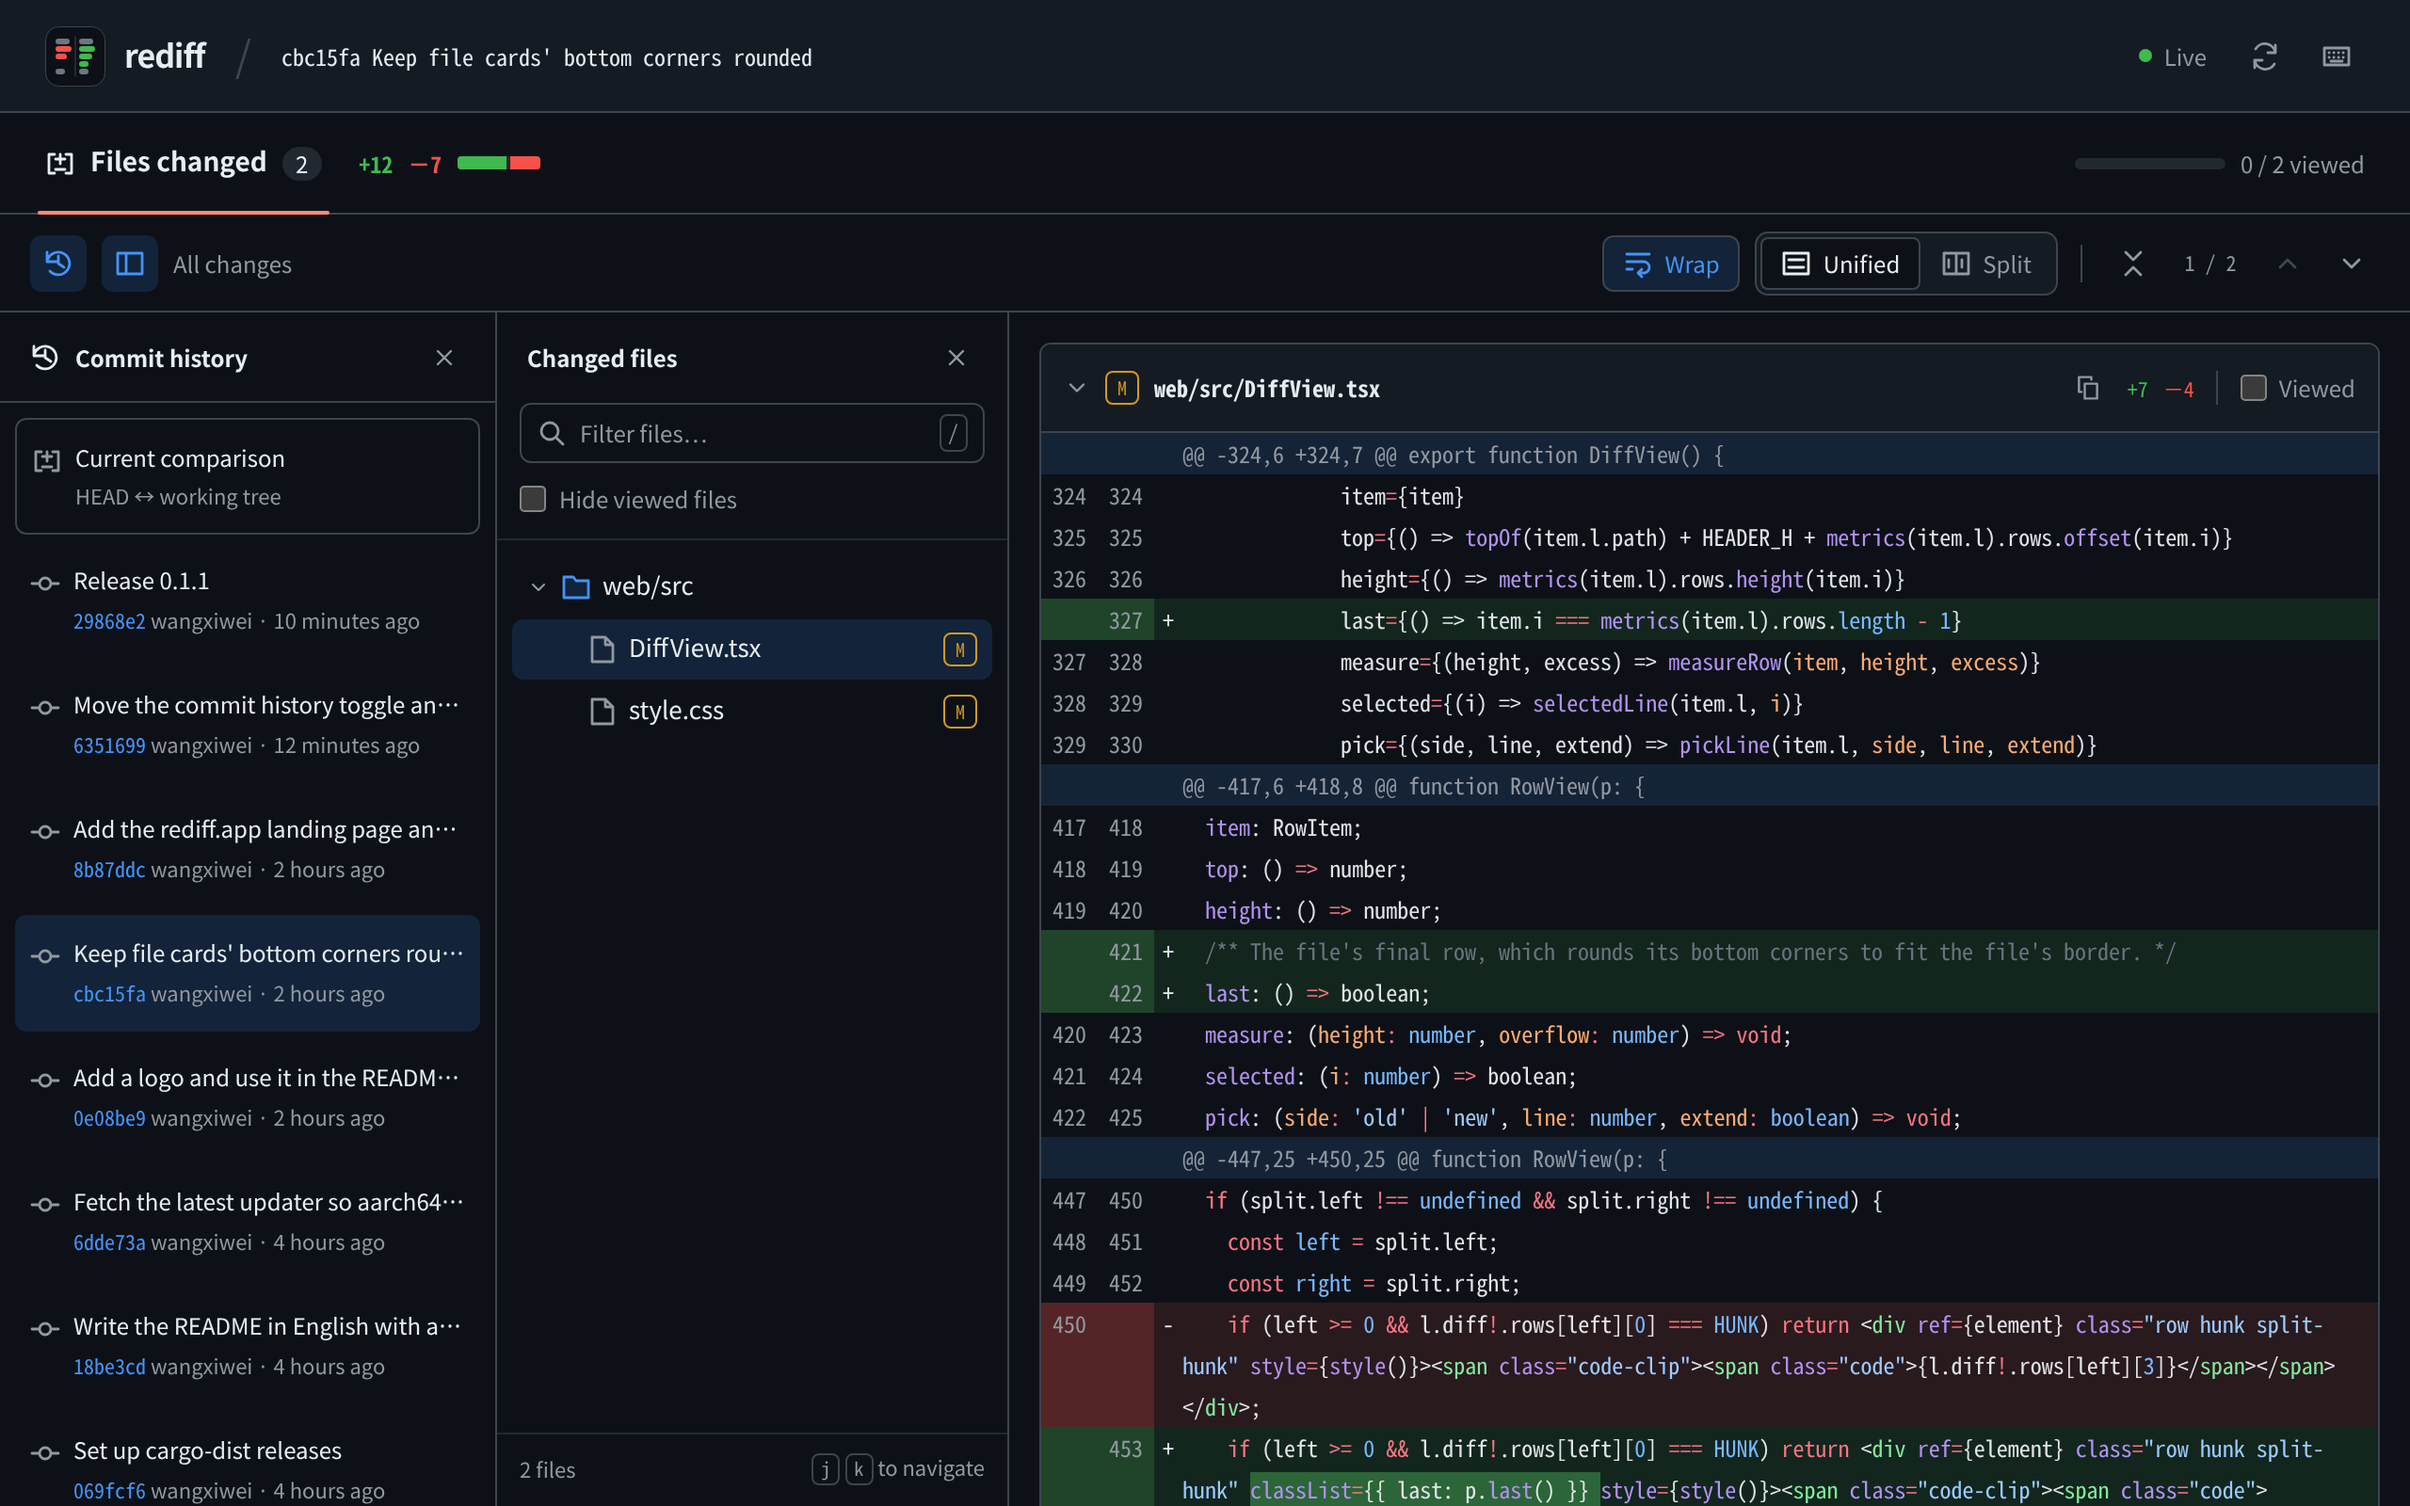
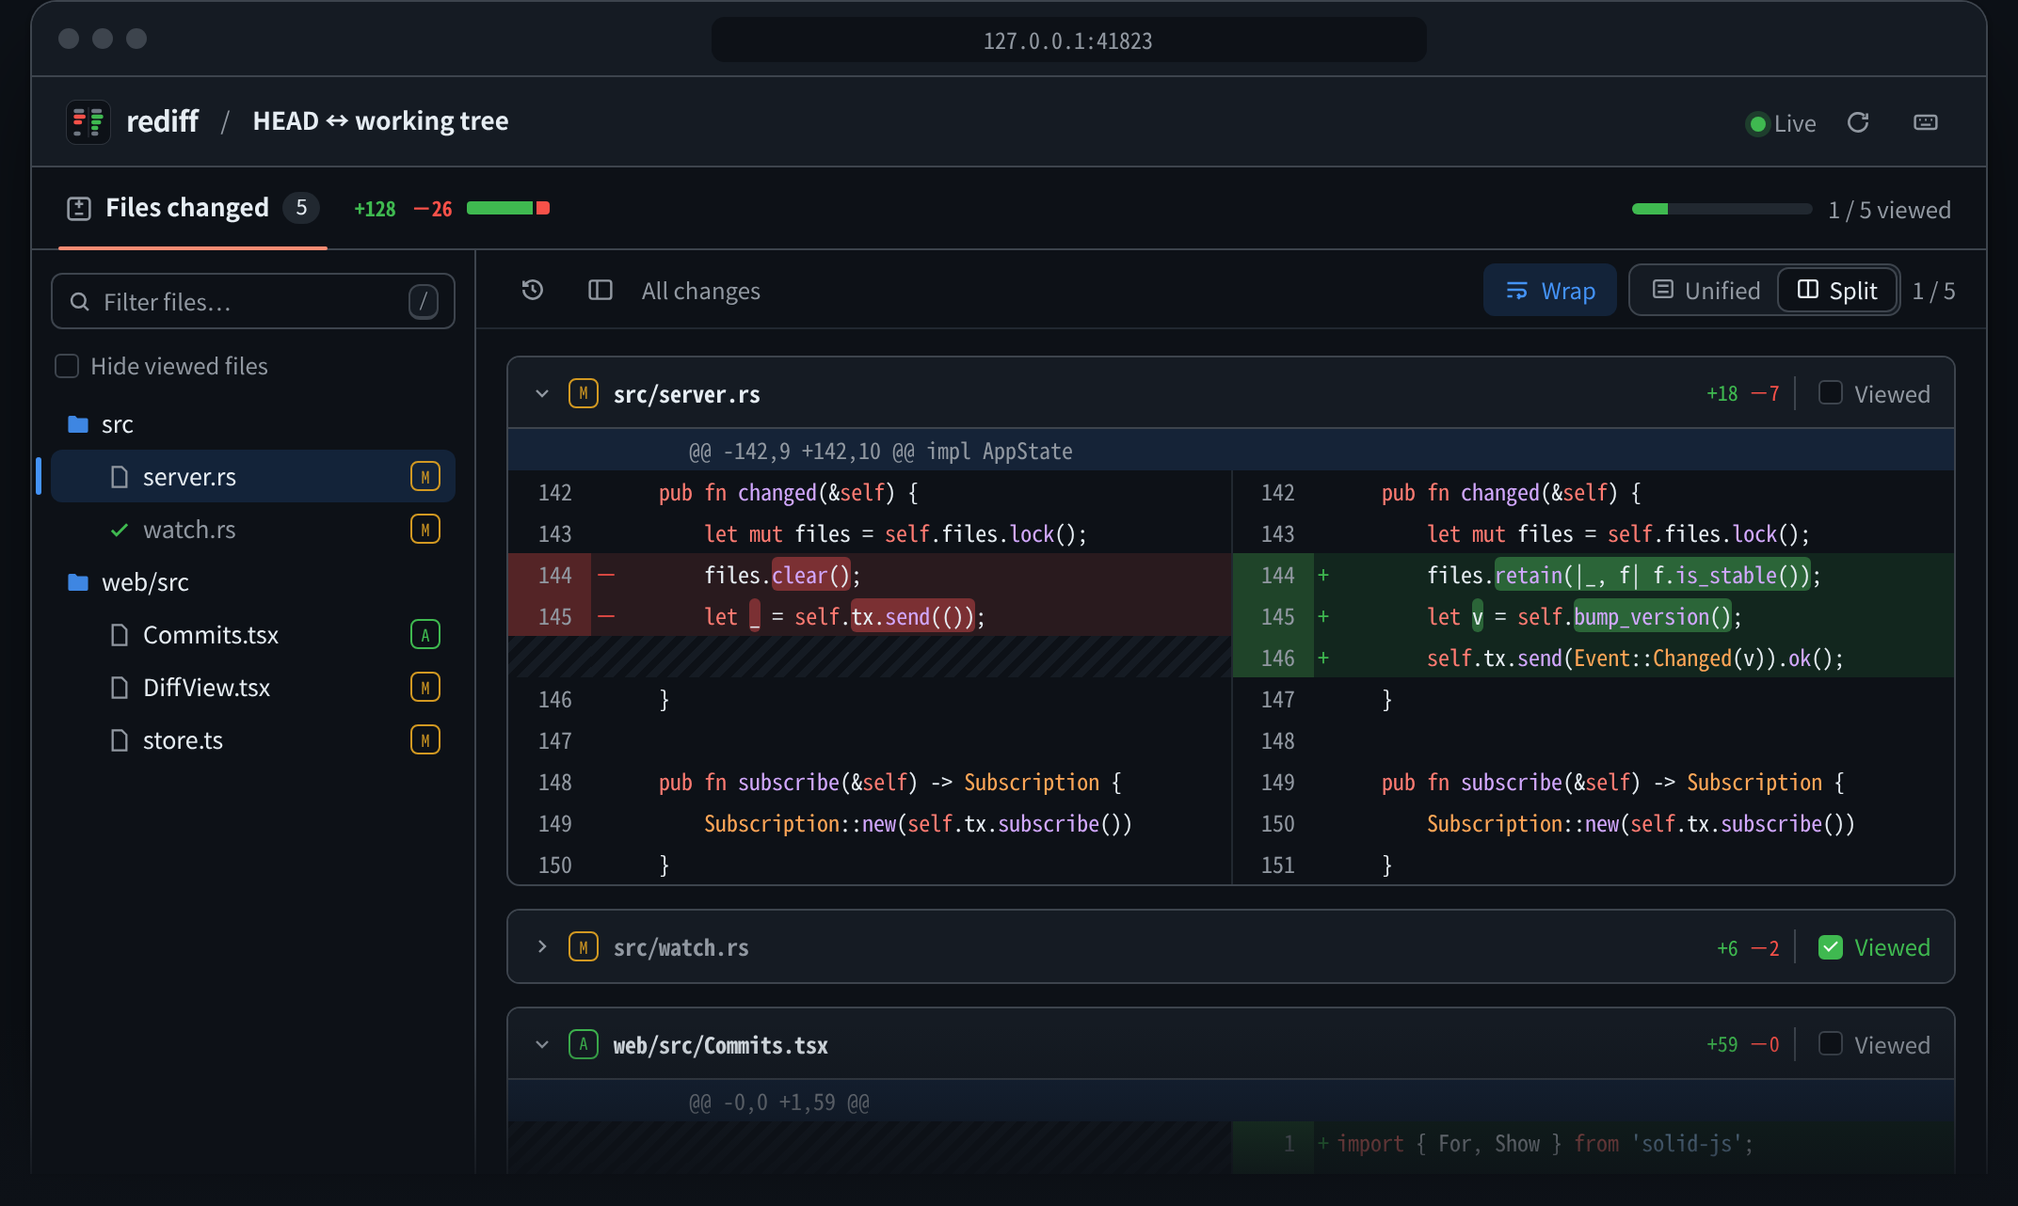
Lead the README with the site mockup, speed and the single binary
The screenshot is now the landing page's product mockup, in light or
dark to match the reader's theme, and sits right under the title.
The intro highlights the measured speed on a 505-file comparison with
a 200,000-line file, and that everything ships in one 6-8 MB binary
(a 1.4-2.1 MB download) that needs only git. The install section notes
what the release archives hold.

diff --git a/README.md b/README.md
@@ -8,7 +8,17 @@
 
 <p align="center">English | <a href="README.zh-CN.md">简体中文</a></p>
 
-A command-line tool for viewing git diffs in the browser. It ships as a single Rust binary with the frontend embedded, and opens your browser on startup.
+<picture>
+  <source media="(prefers-color-scheme: dark)" srcset="assets/screenshot-dark.png">
+  <img src="assets/screenshot-light.png" alt="The rediff review page showing a split diff, with the changed files tree on the left">
+</picture>
+
+rediff opens any git diff in a GitHub-style review page in your browser: before you push, without a pull request, on your laptop or on a remote dev box.
+
+- **Fast, even on huge diffs**: on a comparison of 505 files, one of them with 200,000 changed lines, the first lines appear about 130 ms after the page opens, and the big file loads in 288 ms (2.7 ms once cached) and scrolls at full frame rate. Diffs load as you scroll to them, only the lines on screen are rendered, and syntax highlighting runs in a Web Worker. Save a file and the page shows the change about 330 ms later. See [Performance design](#performance-design) and [Benchmarks](#benchmarks-505-files-one-of-them-with-200k-changed-lines).
+- **One binary, nothing else to install**: the server, the web UI and syntax highlighting for 39 languages are compiled into a single `rediff` executable of 6–8 MB, a 1.4–2.1 MB download depending on the platform. All it needs is git: no Node.js, no runtime, no config. Copy it onto a remote dev box and run it.
+
+Run it in a repository: it starts a local server, prints its address and opens your browser if there is one.
 
 ```sh
 rediff                      # working tree vs HEAD (including untracked files)
@@ -18,11 +28,6 @@ rediff main feature         # main vs feature
 rediff HEAD~3..HEAD -- src  # a commit range, limited to a path
 rediff --help               # all options: -U, --algorithm, --host, --port, --no-open, --no-watch ...
 ```
-
-<picture>
-  <source media="(prefers-color-scheme: dark)" srcset="assets/screenshot-dark.png">
-  <img src="assets/screenshot-light.png" alt="rediff showing a commit's changes, with the commit history and the changed files tree open">
-</picture>
 
 The page follows GitHub's Files changed layout: a filterable file tree on the left, and per-file diffs on the right. The history button at the left of the toolbar opens the commit list for the current branch (100 commits at a time, with more on demand). Click a commit to see its changes (against its first parent; a root commit is compared against the empty tree); the top entry returns to the diff given on the command line. When paths are given, the list only shows commits that touched those paths.
 
@@ -50,7 +55,7 @@ Windows (PowerShell):
 powershell -ExecutionPolicy Bypass -c "irm https://github.com/rediff-app/rediff/releases/latest/download/rediff-installer.ps1 | iex"
 ```
 
-This installs to `~/.cargo/bin` along with `rediff-update`; run it later to upgrade to the latest release. You can also download the archive for your platform from the [Releases](https://github.com/rediff-app/rediff/releases) page.
+This installs to `~/.cargo/bin` along with `rediff-update`; run it later to upgrade to the latest release. You can also download the archive for your platform from the [Releases](https://github.com/rediff-app/rediff/releases) page: 1.4–2.1 MB, holding the `rediff` binary and this README. Put the binary anywhere on your `PATH`.
 
 ## Build
 

diff --git a/README.zh-CN.md b/README.zh-CN.md
@@ -8,7 +8,17 @@
 
 <p align="center"><a href="README.md">English</a> | 简体中文</p>
 
-在浏览器里查看 git diff 的命令行工具。单个 Rust 二进制，前端资源编译进二进制里，启动后自动打开浏览器。
+<picture>
+  <source media="(prefers-color-scheme: dark)" srcset="assets/screenshot-dark.png">
+  <img src="assets/screenshot-light.png" alt="rediff 审阅页面：左侧是改动文件树，右侧是双栏 diff">
+</picture>
+
+rediff 把任意 git diff 打开成浏览器里 GitHub 风格的审阅页面：不用先推送，不用开 PR，在本机和远程开发机上都能用。
+
+- **大 diff 也快**：在 505 个文件、其中一个文件改了 20 万行的对比上，打开页面约 130 ms 就出现首批行；那个大文件首次加载 288 ms（命中缓存 2.7 ms），滚动保持满帧。diff 随滚动按需加载，只渲染屏幕上的行，语法高亮在 Web Worker 里进行。保存文件后约 330 ms 页面就显示出改动。详见[性能相关的设计](#性能相关的设计)和[实测](#实测505-个文件其中一个文件改了-20-万行)。
+- **只有一个二进制，无需安装其他东西**：服务器、网页界面和 39 种语言的语法高亮都编译进一个 `rediff` 可执行文件，大小 6–8 MB，按平台不同下载包为 1.4–2.1 MB。除了 git 什么都不依赖：不用 Node.js、不用运行时、不用配置。拷到远程开发机上就能运行。
+
+在仓库里运行即可：它会启动本地服务器、打印访问地址，有浏览器时自动打开。
 
 ```sh
 rediff                      # 工作区 vs HEAD（包含未跟踪文件）
@@ -18,11 +28,6 @@ rediff main feature         # main vs feature
 rediff HEAD~3..HEAD -- src  # 提交区间，限定路径
 rediff --help               # 全部选项：-U、--algorithm、--host、--port、--no-open、--no-watch ...
 ```
-
-<picture>
-  <source media="(prefers-color-scheme: dark)" srcset="assets/screenshot-dark.png">
-  <img src="assets/screenshot-light.png" alt="rediff 界面：打开了提交历史和文件树，正在查看一个提交的改动">
-</picture>
 
 页面参考 GitHub 的 Files changed 布局：左侧是可筛选的文件树，右侧按文件显示 diff。工具栏左侧的历史按钮打开当前分支的提交列表（每次加载 100 个，可继续加载更多）。点一个提交查看它的改动（相对第一个父提交，根提交相对空树）；最上面一项回到命令行指定的 diff。给了路径参数时，列表只显示改过这些路径的提交。
 
@@ -50,7 +55,7 @@ Windows（PowerShell）：
 powershell -ExecutionPolicy Bypass -c "irm https://github.com/rediff-app/rediff/releases/latest/download/rediff-installer.ps1 | iex"
 ```
 
-安装到 `~/.cargo/bin`，同时装上 `rediff-update`，之后运行它即可升级到最新版本。也可以从 [Releases](https://github.com/rediff-app/rediff/releases) 页面直接下载对应平台的压缩包。
+安装到 `~/.cargo/bin`，同时装上 `rediff-update`，之后运行它即可升级到最新版本。也可以从 [Releases](https://github.com/rediff-app/rediff/releases) 页面直接下载对应平台的压缩包：1.4–2.1 MB，里面只有 `rediff` 二进制和 README，把二进制放到 `PATH` 里任意目录即可。
 
 ## 构建
 
